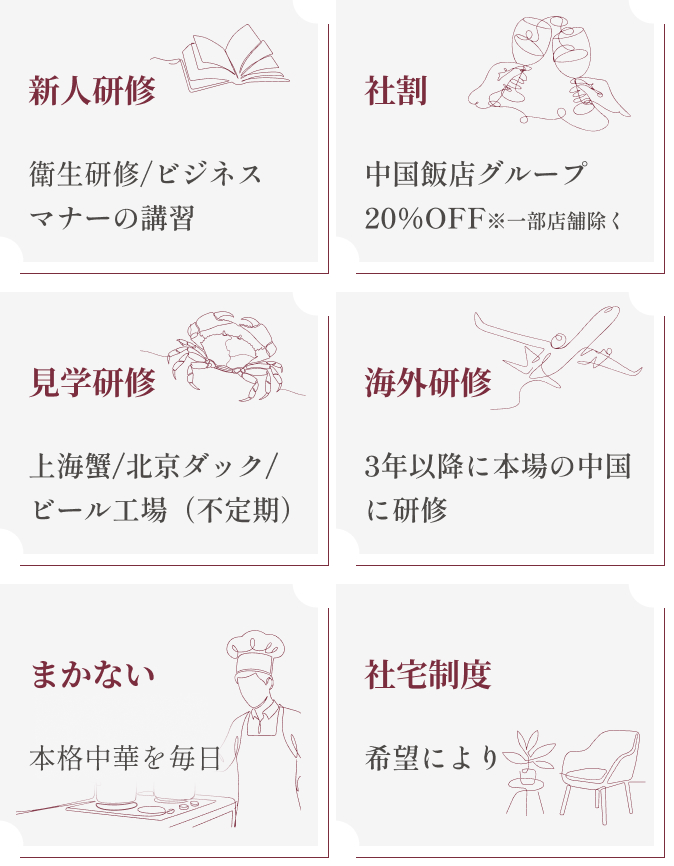
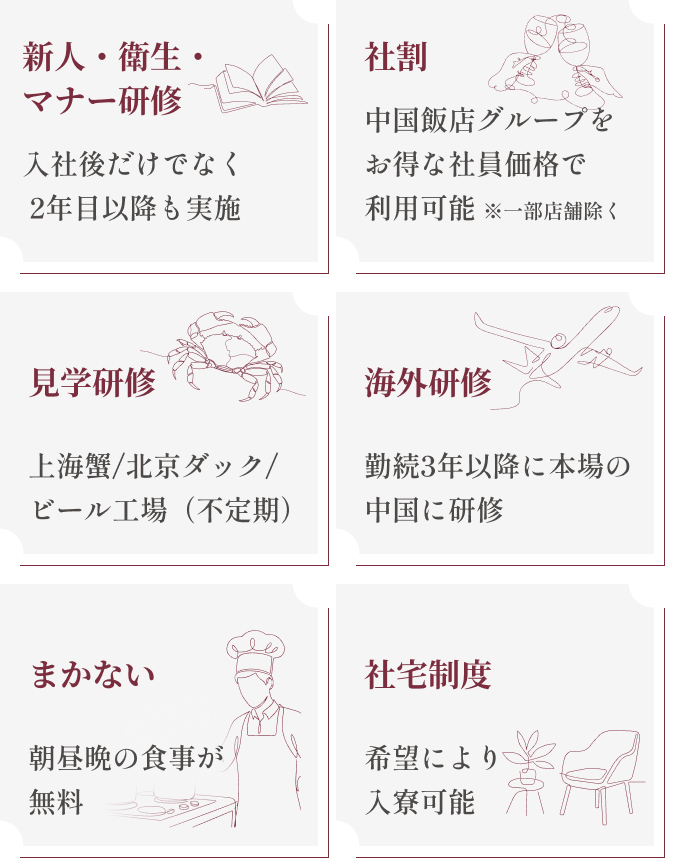
data&infoセクションの見出しを更新し、ベネフィット・データ画像を差し替え

diff --git a/index.html b/index.html
@@ -967,7 +967,7 @@
                             <h2 class="section-h2 section-h2--opacity">
                                 data<span class="section-h2__amp">＆</span>info
                             </h2>
-                            <p class="section-h2-sub">環境とデータ</p>
+                            <p class="section-h2-sub">数字で見る働く環境</p>
                         </div>
 
                         <!-- 業界比較 -->
